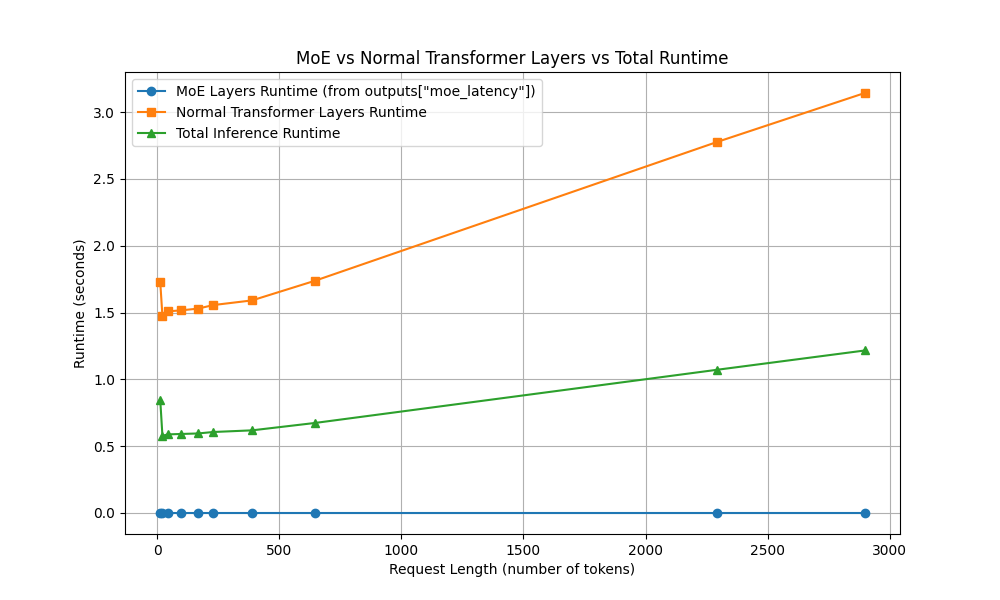
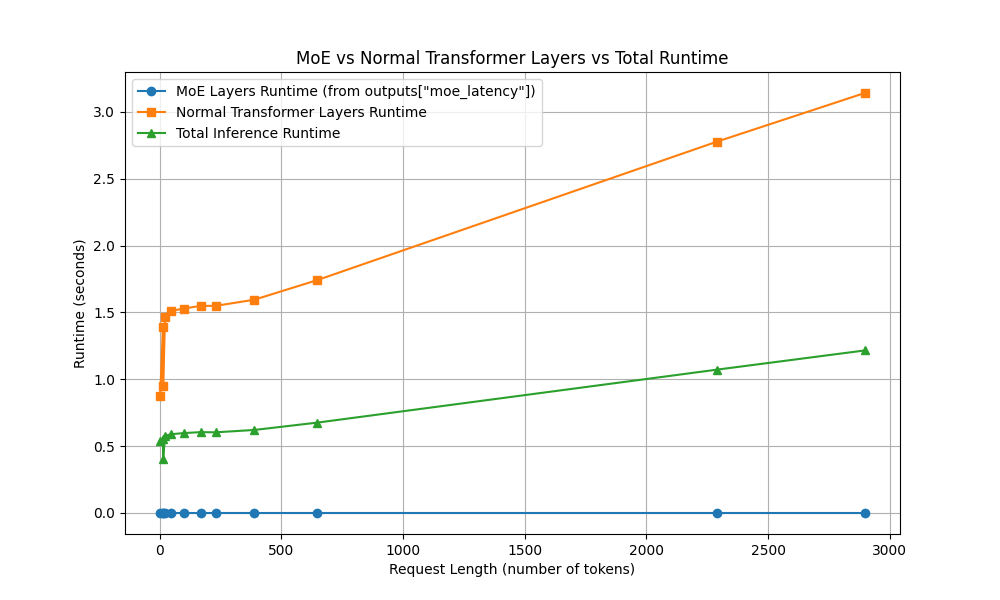
test1 for m45

diff --git a/token_dis.py b/token_dis.py
@@ -10,7 +10,7 @@ login(token)
 
 # 分词器和模型路径
 tokenizer_path = "/vllm-workspace/huggingfaceM87Bv01/Mixtral-8x7B-v0.1"
-requests_file = "requests.txt"
+requests_file = "requestM2.txt"
 
 # 加载分词器和模型
 tokenizer = AutoTokenizer.from_pretrained(tokenizer_path, token=token)

diff --git a/Motivation2.py b/Motivation2.py
@@ -48,7 +48,7 @@ def main():
         
         print("模型加载完成！")
         
-        input_file = "requests.txt"
+        input_file = "requestM2.txt"
         requests = []
         with open(input_file, 'r', encoding='utf-8') as f:
             for line in f:
